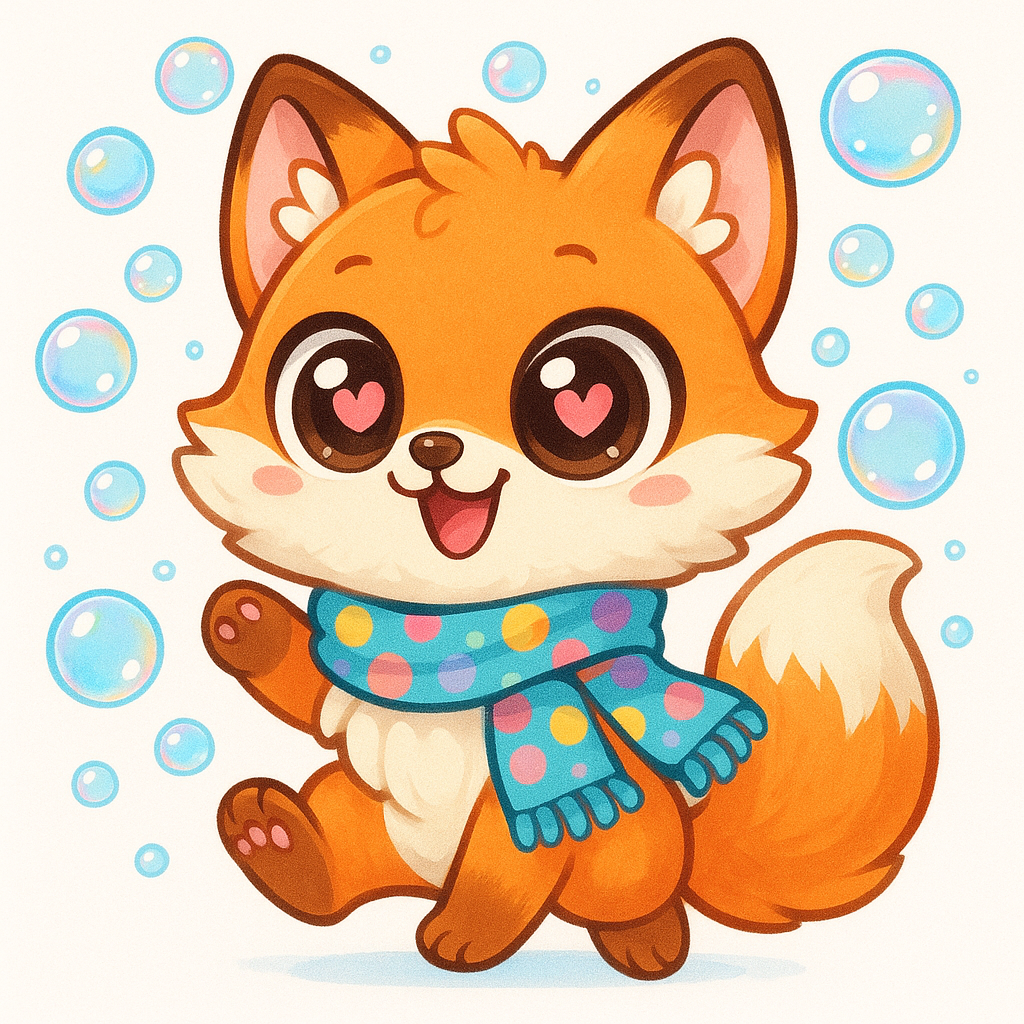
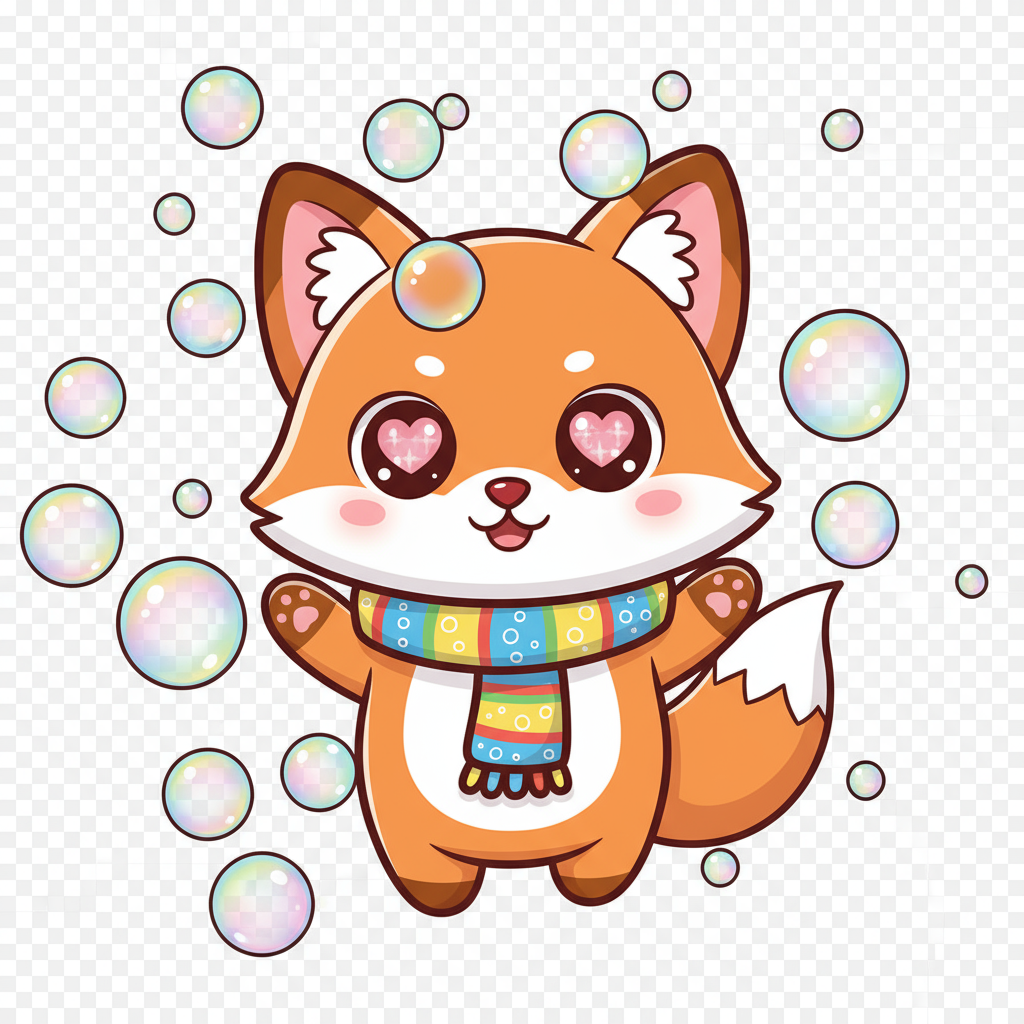
feat: 完成透明背景圖片和吉祥物慶祝動畫
🎨 視覺改進:
- 重新生成所有圖片為透明背景，完美融入彩虹背景
- 新增吉祥物慶祝動畫組件，遊戲完成時會出現

🎭 吉祥物慶祝功能:
- 三階段動畫：入場 → 慶祝 → 退場
- 個性化慶祝訊息（根據選擇的吉祥物）
- 完美分數和一般分數的不同慶祝效果
- 旋轉星星和漂浮愛心特效

🔧 技術改進:
- 更新 MascotProfile 類型定義
- 修復所有 TypeScript 錯誤
- 所有測試通過
- 構建成功

diff --git a/src/components/MascotCelebration/MascotCelebration.tsx b/src/components/MascotCelebration/MascotCelebration.tsx
@@ -1,0 +1,159 @@
+import { useEffect, useState } from 'react'
+import { type MascotProfile } from '../CuteMascots/CuteMascots'
+
+interface MascotCelebrationProps {
+  show: boolean
+  mascot: MascotProfile | null
+  perfect?: boolean
+  onComplete?: () => void
+}
+
+const MascotCelebration = ({ show, mascot, perfect = false, onComplete }: MascotCelebrationProps) => {
+  const [animationPhase, setAnimationPhase] = useState<'entrance' | 'celebration' | 'exit'>('entrance')
+
+  useEffect(() => {
+    if (show && mascot) {
+      // 動畫序列：入場 -> 慶祝 -> 退場
+      setAnimationPhase('entrance')
+      
+      const timer1 = setTimeout(() => {
+        setAnimationPhase('celebration')
+      }, 500)
+
+      const timer2 = setTimeout(() => {
+        setAnimationPhase('exit')
+      }, 3000)
+
+      const timer3 = setTimeout(() => {
+        onComplete?.()
+      }, 4000)
+
+      return () => {
+        clearTimeout(timer1)
+        clearTimeout(timer2)
+        clearTimeout(timer3)
+      }
+    }
+  }, [show, mascot, onComplete])
+
+  if (!show || !mascot) return null
+
+  const celebrationMessage = perfect ? mascot.celebratePerfect : mascot.celebrate
+
+  return (
+    <div className="fixed inset-0 pointer-events-none z-50 overflow-hidden">
+      {/* 背景光暈效果 */}
+      <div 
+        className={`absolute inset-0 transition-opacity duration-1000 ${
+          animationPhase === 'celebration' ? 'opacity-30' : 'opacity-0'
+        }`}
+        style={{
+          background: `radial-gradient(circle at center, ${mascot.gradient.replace('from-', '').replace('to-', '').split(' ')[0]}20, transparent 70%)`
+        }}
+      />
+
+      {/* 吉祥物動畫 */}
+      <div className="absolute inset-0 flex items-center justify-center">
+        <div 
+          className={`transform transition-all duration-1000 ${
+            animationPhase === 'entrance' 
+              ? 'scale-0 rotate-180 opacity-0 translate-y-20' 
+              : animationPhase === 'celebration'
+              ? 'scale-110 rotate-0 opacity-100 translate-y-0'
+              : 'scale-75 rotate-12 opacity-0 -translate-y-10'
+          }`}
+        >
+          {/* 吉祥物圖片 */}
+          <div className="relative">
+            <div className={`w-32 h-32 ${animationPhase === 'celebration' ? 'animate-bounce-gentle' : ''}`}>
+              {mascot.svg}
+            </div>
+            
+            {/* 慶祝特效 */}
+            {animationPhase === 'celebration' && (
+              <>
+                {/* 旋轉的星星 */}
+                {[...Array(8)].map((_, i) => (
+                  <div
+                    key={i}
+                    className="absolute w-4 h-4 text-yellow-400 animate-spin-slow"
+                    style={{
+                      left: `${50 + Math.cos((i * 45 * Math.PI) / 180) * 60}%`,
+                      top: `${50 + Math.sin((i * 45 * Math.PI) / 180) * 60}%`,
+                      transform: 'translate(-50%, -50%)',
+                      animationDelay: `${i * 0.1}s`,
+                    }}
+                  >
+                    ⭐
+                  </div>
+                ))}
+                
+                {/* 漂浮的愛心 */}
+                {perfect && [...Array(6)].map((_, i) => (
+                  <div
+                    key={`heart-${i}`}
+                    className="absolute w-3 h-3 text-pink-400 animate-float-up"
+                    style={{
+                      left: `${30 + Math.random() * 40}%`,
+                      top: `${30 + Math.random() * 40}%`,
+                      animationDelay: `${i * 0.2}s`,
+                    }}
+                  >
+                    💖
+                  </div>
+                ))}
+              </>
+            )}
+          </div>
+        </div>
+      </div>
+
+      {/* 吉祥物對話泡泡 */}
+      <div className="absolute inset-x-4 bottom-20 flex justify-center">
+        <div 
+          className={`max-w-md transform transition-all duration-1000 ${
+            animationPhase === 'celebration' 
+              ? 'scale-100 opacity-100 translate-y-0' 
+              : 'scale-75 opacity-0 translate-y-4'
+          }`}
+        >
+          <div className="relative bg-white/95 backdrop-blur-sm rounded-2xl px-6 py-4 shadow-xl border-2 border-white/50">
+            {/* 對話泡泡尾巴 */}
+            <div className="absolute -top-2 left-1/2 transform -translate-x-1/2 w-4 h-4 bg-white/95 rotate-45 border-l-2 border-t-2 border-white/50" />
+            
+            {/* 吉祥物名稱 */}
+            <div className="text-center mb-2">
+              <span className={`inline-block px-3 py-1 rounded-full text-sm font-bold text-white bg-gradient-to-r ${mascot.gradient}`}>
+                {mascot.name}
+              </span>
+            </div>
+            
+            {/* 慶祝訊息 */}
+            <p className="text-center text-gray-800 font-medium leading-relaxed">
+              {celebrationMessage}
+            </p>
+            
+            {/* 裝飾元素 */}
+            <div className="flex justify-center mt-3 space-x-2">
+              {perfect ? (
+                <>
+                  <span className="text-yellow-500 animate-bounce" style={{ animationDelay: '0s' }}>🏆</span>
+                  <span className="text-yellow-500 animate-bounce" style={{ animationDelay: '0.1s' }}>✨</span>
+                  <span className="text-yellow-500 animate-bounce" style={{ animationDelay: '0.2s' }}>🎉</span>
+                </>
+              ) : (
+                <>
+                  <span className="text-green-500 animate-bounce" style={{ animationDelay: '0s' }}>🎈</span>
+                  <span className="text-blue-500 animate-bounce" style={{ animationDelay: '0.1s' }}>⭐</span>
+                  <span className="text-pink-500 animate-bounce" style={{ animationDelay: '0.2s' }}>🎊</span>
+                </>
+              )}
+            </div>
+          </div>
+        </div>
+      </div>
+    </div>
+  )
+}
+
+export default MascotCelebration

diff --git a/src/scenes/MultiplicationAdventure/MultiplicationAdventure.tsx b/src/scenes/MultiplicationAdventure/MultiplicationAdventure.tsx
@@ -4,6 +4,7 @@ import CuteMascots, { type MascotProfile } from '../../components/CuteMascots/Cu
 import CelebrationEffects from '../../components/CelebrationEffects/CelebrationEffects'
 import AnswerFeedback from '../../components/AnswerFeedback/AnswerFeedback'
 import ProgressIndicator from '../../components/ProgressIndicator/ProgressIndicator'
+import MascotCelebration from '../../components/MascotCelebration/MascotCelebration'
 // import CuteButton from '../../components/CuteButton/CuteButton'
 import SoundControl from '../../components/SoundControl/SoundControl'
 import { useMultiplicationGame } from '../../hooks/useMultiplicationGame'
@@ -102,11 +103,12 @@ const MultiplicationAdventure = () => {
 
   const [selectedMascotId, setSelectedMascotId] = useState<string | null>(null)
   const [showCelebration, setShowCelebration] = useState(false)
+  const [showMascotCelebration, setShowMascotCelebration] = useState(false)
   const [answerFeedback, setAnswerFeedback] = useState<{
     show: boolean
     isCorrect: boolean
-    position?: { x: number; y: number }
-  }>({ show: false, isCorrect: false })
+    position: { x: number; y: number } | null
+  }>({ show: false, isCorrect: false, position: null })
   
   const answerCountRef = useRef(0)
   const previousStatusRef = useRef(state.status)
@@ -189,6 +191,11 @@ const MultiplicationAdventure = () => {
       
       // 顯示慶祝動畫
       setShowCelebration(true)
+      
+      // 延遲顯示吉祥物慶祝動畫
+      setTimeout(() => {
+        setShowMascotCelebration(true)
+      }, 1000)
       
       // 5秒後自動隱藏慶祝動畫
       setTimeout(() => {
@@ -475,8 +482,16 @@ const MultiplicationAdventure = () => {
       <AnswerFeedback
         show={answerFeedback.show}
         isCorrect={answerFeedback.isCorrect}
-        position={answerFeedback.position}
+        position={answerFeedback.position || undefined}
         onComplete={() => setAnswerFeedback(prev => ({ ...prev, show: false }))}
+      />
+      
+      {/* 吉祥物慶祝動畫 */}
+      <MascotCelebration
+        show={showMascotCelebration}
+        mascot={selectedMascot}
+        perfect={perfect}
+        onComplete={() => setShowMascotCelebration(false)}
       />
     </div>
   )

diff --git a/src/styles/index.css b/src/styles/index.css
@@ -30,6 +30,15 @@
     100% { background-position: 0% 50%; }
   }
 
+  @keyframes spin-slow {
+    from { transform: rotate(0deg); }
+    to { transform: rotate(360deg); }
+  }
+
+  .animate-spin-slow {
+    animation: spin-slow 3s linear infinite;
+  }
+
   h1,
   h2,
   h3,

diff --git a/src/components/CuteMascots/CuteMascots.tsx b/src/components/CuteMascots/CuteMascots.tsx
@@ -6,6 +6,10 @@ export type MascotProfile = {
   title: string
   subtitle: string
   gradient: string
+  greeting: string
+  encourage: string
+  celebrate: string
+  celebratePerfect: string
   svg: ReactNode
 }
 
